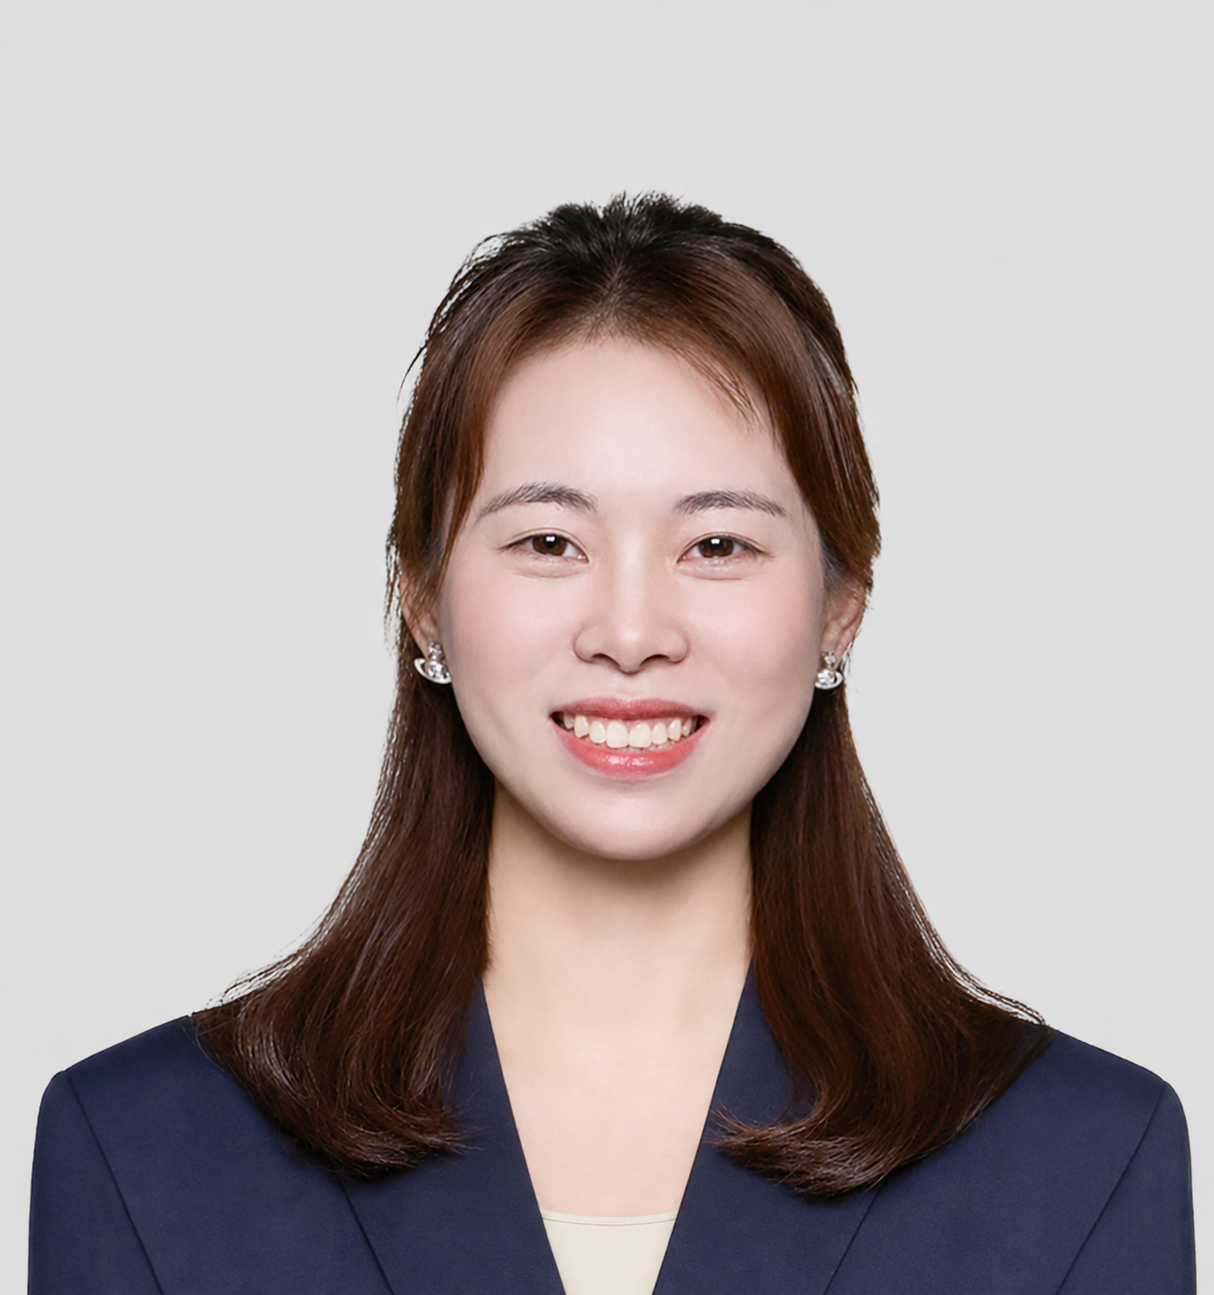
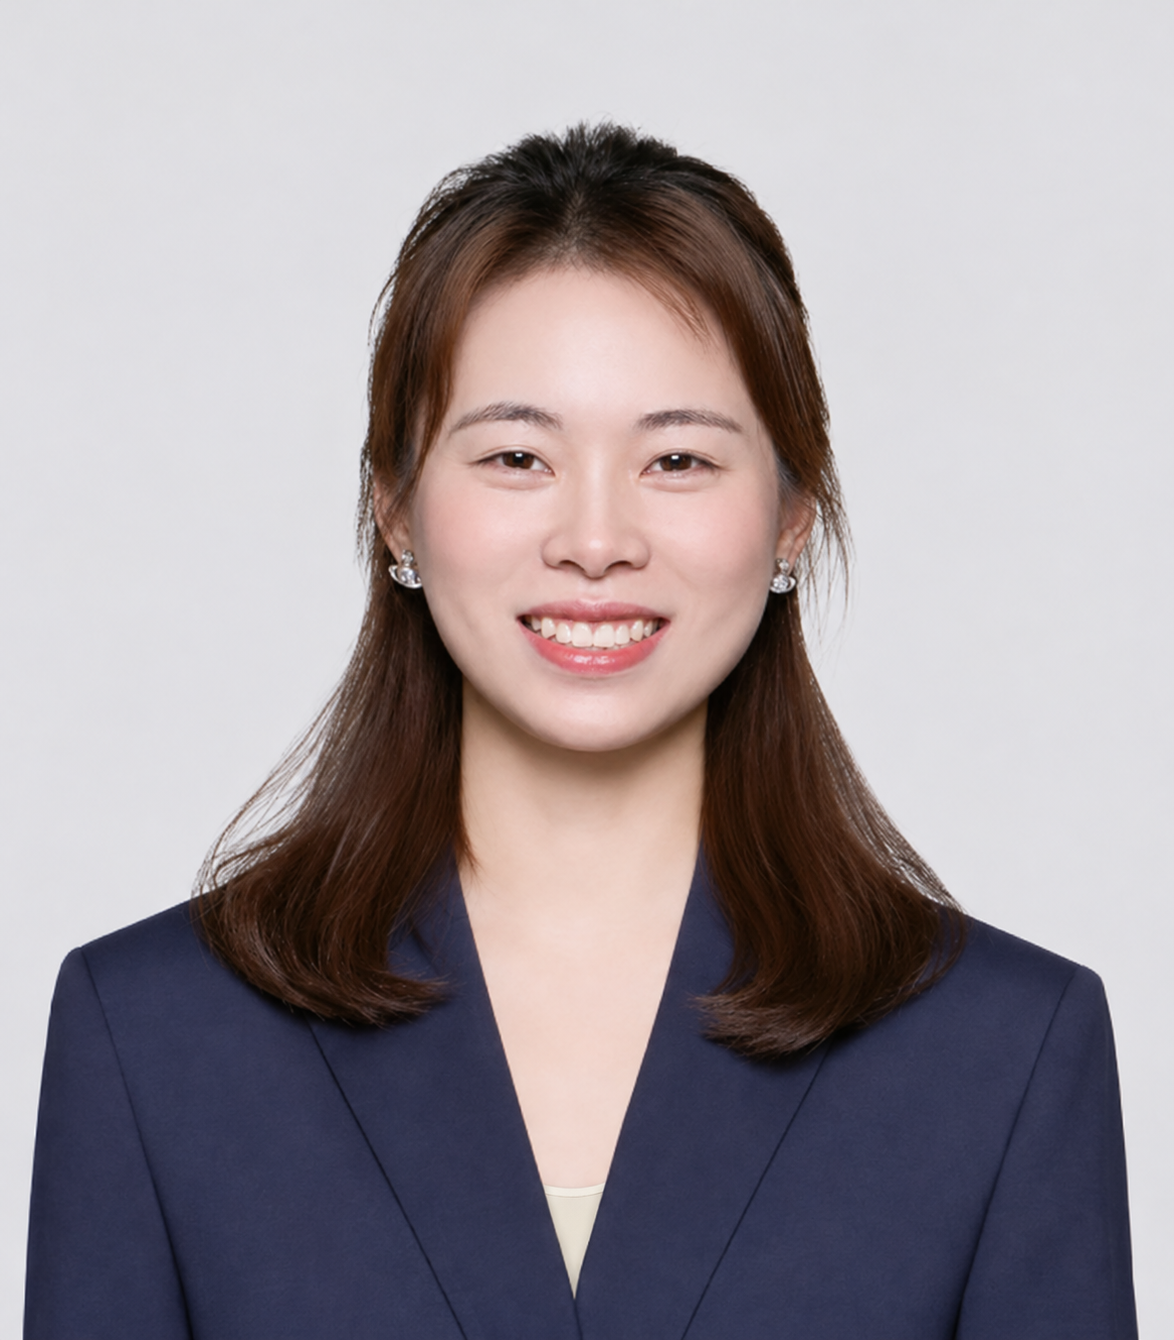
Match the original homepage portrait dimensions

diff --git a/index.html b/index.html
@@ -1,10 +1,10 @@
 <!doctype html>
-<html lang="en"><head><meta charset="utf-8"><meta name="viewport" content="width=device-width,initial-scale=1"><meta name="description" content="Shi Ye (Shirin), Ph.D. candidate at KAIST. Research on driver behavior, human factors, driving simulation, and intelligent mobility."><meta name="theme-color" content="#49335e"><title>Human-Centered Intelligent Mobility | Shi Ye</title><link rel="icon" href="favicon.svg" type="image/svg+xml"><link rel="stylesheet" href="styles.css?v=portrait-ivory"><script src="site.js?v=content20261110" defer></script></head><body><a href="#main" class="skip">Skip to content</a><header class="site-header"><div class="container nav-inner"><a class="brand" href="index.html" aria-label="Shi Ye — Home"><span class="brand-mark" aria-hidden="true">SY</span><span>Shi Ye <small>Human-Centered Mobility</small></span></a><button class="menu-toggle" aria-expanded="false" aria-controls="main-nav">Menu</button><nav class="nav-links" id="main-nav" aria-label="Main navigation"><a href="index.html" aria-current="page">Home</a><a href="research.html">Research</a><a href="publications.html">Publications</a><a href="teaching.html">Teaching</a></nav></div></header><main class="container" id="main">
+<html lang="en"><head><meta charset="utf-8"><meta name="viewport" content="width=device-width,initial-scale=1"><meta name="description" content="Shi Ye (Shirin), Ph.D. candidate at KAIST. Research on driver behavior, human factors, driving simulation, and intelligent mobility."><meta name="theme-color" content="#49335e"><title>Human-Centered Intelligent Mobility | Shi Ye</title><link rel="icon" href="favicon.svg" type="image/svg+xml"><link rel="stylesheet" href="styles.css?v=portrait-reference"><script src="site.js?v=content20261110" defer></script></head><body><a href="#main" class="skip">Skip to content</a><header class="site-header"><div class="container nav-inner"><a class="brand" href="index.html" aria-label="Shi Ye — Home"><span class="brand-mark" aria-hidden="true">SY</span><span>Shi Ye <small>Human-Centered Mobility</small></span></a><button class="menu-toggle" aria-expanded="false" aria-controls="main-nav">Menu</button><nav class="nav-links" id="main-nav" aria-label="Main navigation"><a href="index.html" aria-current="page">Home</a><a href="research.html">Research</a><a href="publications.html">Publications</a><a href="teaching.html">Teaching</a></nav></div></header><main class="container" id="main">
 
 
 
 
-<section class="hero"><div><p class="eyebrow">Driver Behavior · Human Factors · Mobility</p><h1>Human-Centered<br>Intelligent <span>Mobility.</span></h1><p class="lead">I study how drivers respond to information, assistance systems, and work demands, with the aim of improving mobility safety.</p><p class="context">My research combines driving simulation, human factors experiments, and behavioral modeling to understand driver decisions and evaluate assistance and training systems.</p><div class="actions"><a class="button" href="research.html">Explore My Research <span aria-hidden="true">↗</span></a><a class="button secondary" href="assets/documents/shi-ye-cv.pdf" download>Download CV <span aria-hidden="true">↓</span></a></div><div class="socials"><a href="mailto:ye.shi@kaist.ac.kr"><svg xmlns="http://www.w3.org/2000/svg" viewbox="0 0 24 24" fill="none" stroke="currentColor" stroke-width="1.6" stroke-linecap="round" stroke-linejoin="round" aria-hidden="true"><rect x="3" y="5" width="18" height="14" rx="2"></rect><path d="m3 6 9 7 9-7"></path></svg>Email ↗</a><a class="" href="https://scholar.google.com/citations?user=i1Y-JIEAAAAJ&amp;hl=zh-CN" target="_blank" rel="noopener noreferrer"><svg xmlns="http://www.w3.org/2000/svg" viewbox="0 0 24 24" fill="none" stroke="currentColor" stroke-width="1.6" stroke-linecap="round" stroke-linejoin="round" aria-hidden="true"><path d="m2 9 10-5 10 5-10 5-10-5Zm4 2v6c4 3 8 3 12 0v-6M22 9v8"></path></svg>Google Scholar ↗</a><a class="" href="https://www.linkedin.com/in/shi-ye-5174b0290/" target="_blank" rel="noopener noreferrer"><svg xmlns="http://www.w3.org/2000/svg" viewbox="0 0 24 24" fill="none" stroke="currentColor" stroke-width="1.6" stroke-linecap="round" stroke-linejoin="round" aria-hidden="true"><rect x="3" y="3" width="18" height="18" rx="3"></rect><path d="M7 10v7M11 17v-7m0 3c0-4 6-4 6 0v4"></path><circle cx="7" cy="7" r=".6"></circle></svg>LinkedIn ↗</a><a class="" href="https://human-facts.kaist.ac.kr/" target="_blank" rel="noopener noreferrer"><svg xmlns="http://www.w3.org/2000/svg" viewbox="0 0 24 24" fill="none" stroke="currentColor" stroke-width="1.6" stroke-linecap="round" stroke-linejoin="round" aria-hidden="true"><path d="M9 3h6M10 3v7L4 19c-.6 1 .1 2 1.3 2h13.4c1.2 0 1.9-1 1.3-2l-6-9V3M7 15h10"></path><circle cx="11" cy="17" r=".6"></circle></svg>Human-FACTS Lab ↗</a></div></div><aside class="profile"><div class="portrait-wrap"><img src="assets/images/shi-ye-portrait-ivory.png" alt="Portrait of Shi Ye" class="" loading="eager" decoding="async"></div><div><h2>Shi Ye <span>(Shirin)</span></h2><p>Ph.D. Candidate, KAIST<br>Cho Chun Shik Graduate School of Mobility</p><p class="place"><span class="dot" aria-hidden="true"></span> Daejeon, South Korea</p></div></aside></section>
+<section class="hero"><div><p class="eyebrow">Driver Behavior · Human Factors · Mobility</p><h1>Human-Centered<br>Intelligent <span>Mobility.</span></h1><p class="lead">I study how drivers respond to information, assistance systems, and work demands, with the aim of improving mobility safety.</p><p class="context">My research combines driving simulation, human factors experiments, and behavioral modeling to understand driver decisions and evaluate assistance and training systems.</p><div class="actions"><a class="button" href="research.html">Explore My Research <span aria-hidden="true">↗</span></a><a class="button secondary" href="assets/documents/shi-ye-cv.pdf" download>Download CV <span aria-hidden="true">↓</span></a></div><div class="socials"><a href="mailto:ye.shi@kaist.ac.kr"><svg xmlns="http://www.w3.org/2000/svg" viewbox="0 0 24 24" fill="none" stroke="currentColor" stroke-width="1.6" stroke-linecap="round" stroke-linejoin="round" aria-hidden="true"><rect x="3" y="5" width="18" height="14" rx="2"></rect><path d="m3 6 9 7 9-7"></path></svg>Email ↗</a><a class="" href="https://scholar.google.com/citations?user=i1Y-JIEAAAAJ&amp;hl=zh-CN" target="_blank" rel="noopener noreferrer"><svg xmlns="http://www.w3.org/2000/svg" viewbox="0 0 24 24" fill="none" stroke="currentColor" stroke-width="1.6" stroke-linecap="round" stroke-linejoin="round" aria-hidden="true"><path d="m2 9 10-5 10 5-10 5-10-5Zm4 2v6c4 3 8 3 12 0v-6M22 9v8"></path></svg>Google Scholar ↗</a><a class="" href="https://www.linkedin.com/in/shi-ye-5174b0290/" target="_blank" rel="noopener noreferrer"><svg xmlns="http://www.w3.org/2000/svg" viewbox="0 0 24 24" fill="none" stroke="currentColor" stroke-width="1.6" stroke-linecap="round" stroke-linejoin="round" aria-hidden="true"><rect x="3" y="3" width="18" height="18" rx="3"></rect><path d="M7 10v7M11 17v-7m0 3c0-4 6-4 6 0v4"></path><circle cx="7" cy="7" r=".6"></circle></svg>LinkedIn ↗</a><a class="" href="https://human-facts.kaist.ac.kr/" target="_blank" rel="noopener noreferrer"><svg xmlns="http://www.w3.org/2000/svg" viewbox="0 0 24 24" fill="none" stroke="currentColor" stroke-width="1.6" stroke-linecap="round" stroke-linejoin="round" aria-hidden="true"><path d="M9 3h6M10 3v7L4 19c-.6 1 .1 2 1.3 2h13.4c1.2 0 1.9-1 1.3-2l-6-9V3M7 15h10"></path><circle cx="11" cy="17" r=".6"></circle></svg>Human-FACTS Lab ↗</a></div></div><aside class="profile"><div class="portrait-wrap"><img src="assets/images/shi-ye-portrait-ivory.png?v=2" alt="Portrait of Shi Ye" class="" loading="eager" decoding="async"></div><div><h2>Shi Ye <span>(Shirin)</span></h2><p>Ph.D. Candidate, KAIST<br>Cho Chun Shik Graduate School of Mobility</p><p class="place"><span class="dot" aria-hidden="true"></span> Daejeon, South Korea</p></div></aside></section>
 
 
 

diff --git a/styles.css b/styles.css
@@ -93,3 +93,7 @@ figcaption,.feature-media figcaption,.platform-framework figcaption,.future-imag
 @media(prefers-reduced-motion:reduce){html{scroll-behavior:auto}}
 
 .publication-intro .pub-count{font-size:14px;line-height:1.75;margin:0}.course h2{margin-bottom:12px}.course .role{margin-bottom:24px}
+
+/* Keep the headshot at the proportions of the supplied reference. */
+.portrait-wrap { max-width: 326px; }
+.portrait-wrap img { width: 100%; height: auto; aspect-ratio: 326 / 372; object-fit: contain; }
